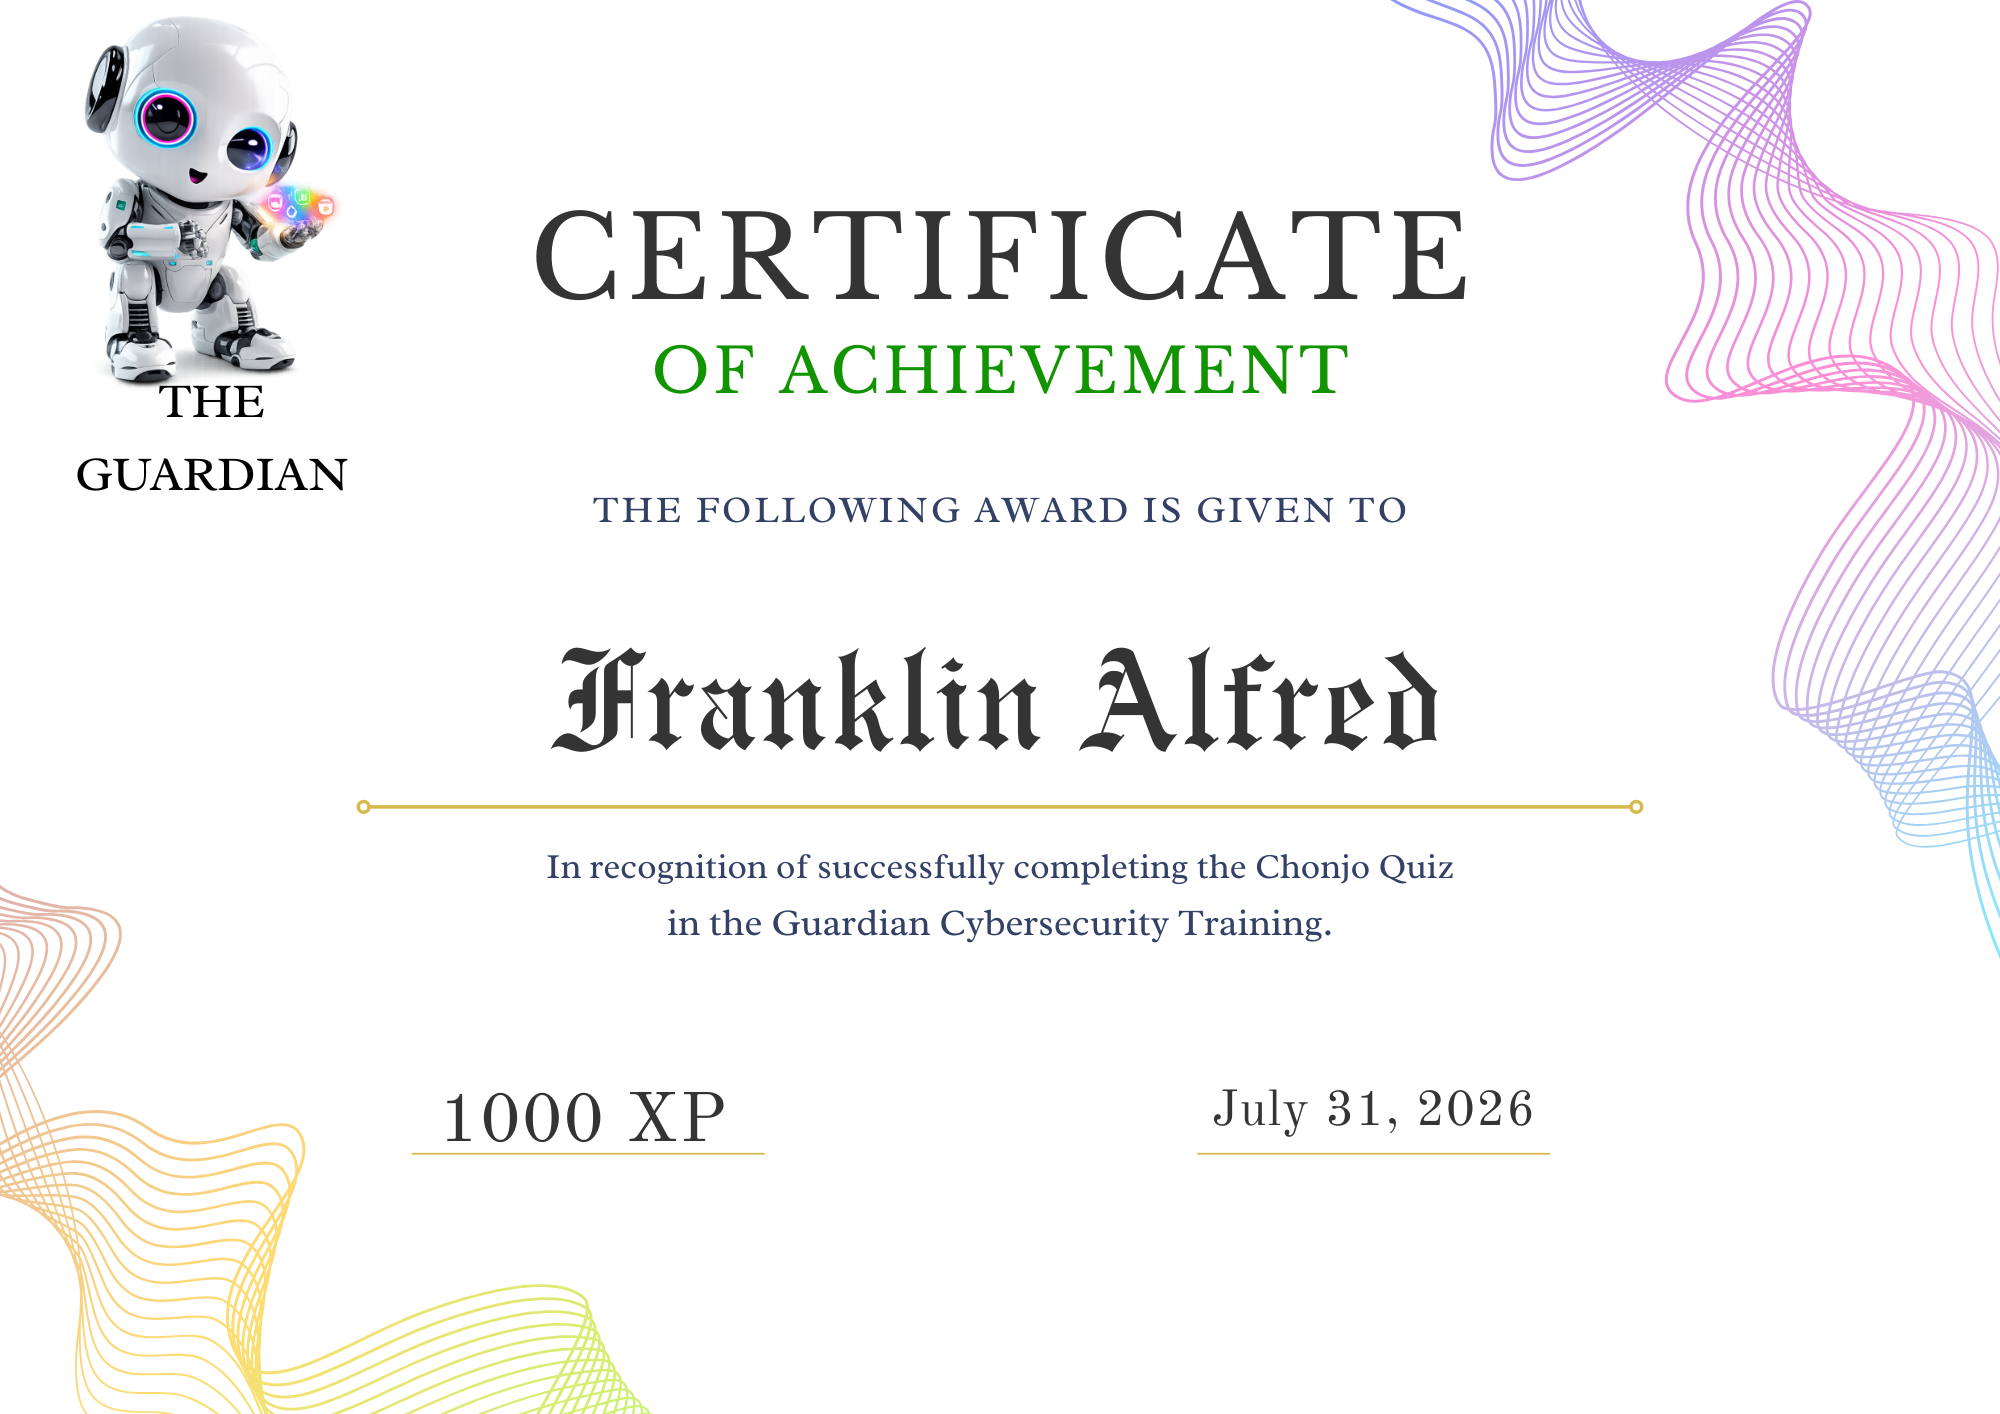
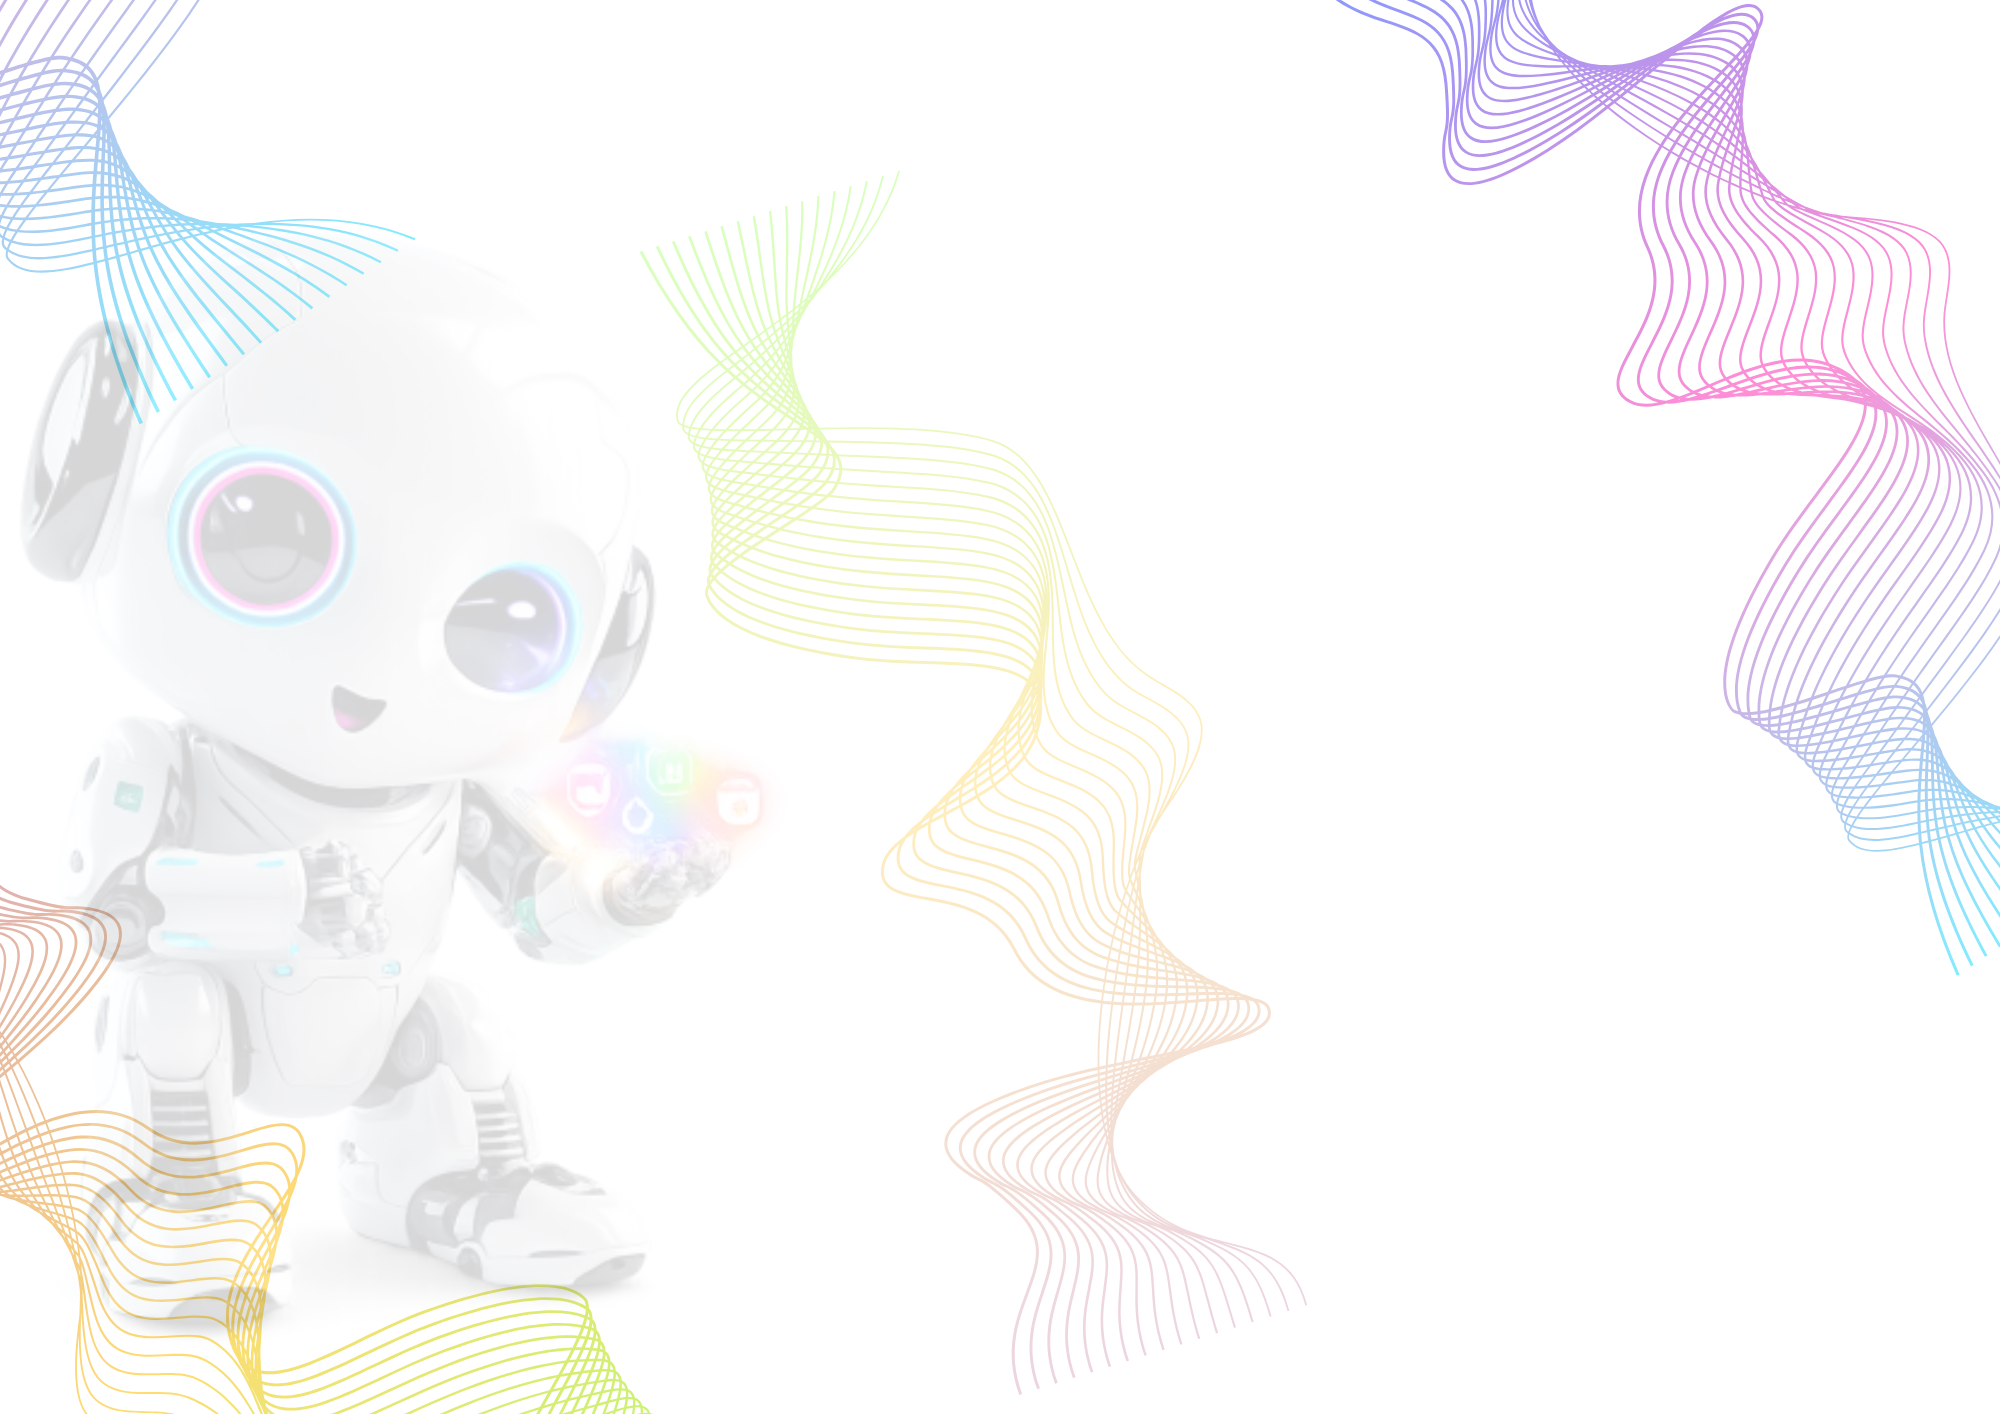
Fix certificate screen layout and resolution to prevent overflow and improve exported image quality

diff --git a/frontend/lib/screens/certificate_screen.dart b/frontend/lib/screens/certificate_screen.dart
@@ -36,16 +36,16 @@ class _CertificateScreenState extends State<CertificateScreen> {
           as RenderRepaintBoundary?;
       if (boundary == null) return;
 
-      final image = await boundary.toImage(pixelRatio: 3.0);
+      final image = await boundary.toImage(pixelRatio: 2.0); // 2.0 is enough for a 1000x700 canvas (results in 2000x1400 image)
       final byteData = await image.toByteData(format: ui.ImageByteFormat.png);
       if (byteData == null) return;
 
       final Uint8List pngBytes = byteData.buffer.asUint8List();
 
-      // Save to Downloads/Pictures directory
+      // Save to Documents directory (works on Android and iOS)
       final directory = await getApplicationDocumentsDirectory();
       final filePath =
-          '${directory.path}/CyberMfukoni_Certificate_${widget.username}.png';
+          '${directory.path}/CyberMfukoni_Certificate_${widget.username.replaceAll(' ', '_')}.png';
       final file = File(filePath);
       await file.writeAsBytes(pngBytes);
 
@@ -59,8 +59,8 @@ class _CertificateScreenState extends State<CertificateScreen> {
                 const SizedBox(width: 8),
                 Expanded(
                   child: Text(
-                    'Certificate saved to: $filePath',
-                    style: const TextStyle(color: Colors.black, fontWeight: FontWeight.w600),
+                    'Certificate saved to:\n$filePath',
+                    style: const TextStyle(color: Colors.black, fontWeight: FontWeight.w600, fontSize: 12),
                   ),
                 ),
               ],
@@ -107,21 +107,40 @@ class _CertificateScreenState extends State<CertificateScreen> {
       body: Column(
         children: [
           const SizedBox(height: 20),
-          // Certificate card
+          // Certificate card wrapped in FittedBox to maintain aspect ratio and fit on screen
           Expanded(
             child: Center(
-              child: SingleChildScrollView(
+              child: Padding(
                 padding: const EdgeInsets.symmetric(horizontal: 16),
-                child: RepaintBoundary(
-                  key: _certKey,
-                  child: _buildCertificate(),
+                child: Container(
+                  decoration: BoxDecoration(
+                    boxShadow: [
+                      BoxShadow(
+                        color: const Color(0xFFFFD700).withOpacity(0.15),
+                        blurRadius: 40,
+                        spreadRadius: 2,
+                      ),
+                      BoxShadow(
+                        color: Colors.black.withOpacity(0.5),
+                        blurRadius: 20,
+                        offset: const Offset(0, 10),
+                      ),
+                    ],
+                  ),
+                  child: FittedBox(
+                    fit: BoxFit.contain,
+                    child: RepaintBoundary(
+                      key: _certKey,
+                      child: _buildCertificate(),
+                    ),
+                  ),
                 ),
               ),
             ),
           ),
           // Download button
           Padding(
-            padding: const EdgeInsets.fromLTRB(24, 16, 24, 32),
+            padding: const EdgeInsets.fromLTRB(24, 24, 24, 32),
             child: SizedBox(
               width: double.infinity,
               height: 56,
@@ -162,34 +181,22 @@ class _CertificateScreenState extends State<CertificateScreen> {
   }
 
   Widget _buildCertificate() {
+    // We use a fixed 1000x700 resolution. 
+    // The FittedBox above will scale this down to fit the phone screen visually, 
+    // but the RepaintBoundary will capture the full 1000x700 high-res image.
     return Container(
-      width: double.infinity,
-      constraints: const BoxConstraints(maxWidth: 500),
-      decoration: BoxDecoration(
-        color: const Color(0xFFFFFDF5),
-        borderRadius: BorderRadius.circular(12),
-        boxShadow: [
-          BoxShadow(
-            color: const Color(0xFFFFD700).withOpacity(0.25),
-            blurRadius: 30,
-            spreadRadius: 2,
-          ),
-          BoxShadow(
-            color: Colors.black.withOpacity(0.4),
-            blurRadius: 20,
-            offset: const Offset(0, 10),
-          ),
-        ],
+      width: 1000,
+      height: 700,
+      decoration: const BoxDecoration(
+        color: Color(0xFFFFFDF5),
       ),
       child: Stack(
         children: [
           // Certificate background image
-          ClipRRect(
-            borderRadius: BorderRadius.circular(12),
+          Positioned.fill(
             child: Image.asset(
               'assets/images/cert_bg.png',
               fit: BoxFit.cover,
-              width: double.infinity,
               errorBuilder: (context, error, stackTrace) {
                 // Fallback if cert_bg.png is not yet placed
                 return _buildFallbackCertBackground();
@@ -199,81 +206,82 @@ class _CertificateScreenState extends State<CertificateScreen> {
           // Overlay text on the certificate
           Positioned.fill(
             child: Padding(
-              padding: const EdgeInsets.symmetric(horizontal: 32, vertical: 24),
+              padding: const EdgeInsets.symmetric(horizontal: 40, vertical: 30),
               child: Column(
                 children: [
-                  const SizedBox(height: 20),
+                  const SizedBox(height: 30),
                   // "THE GUARDIAN" branding
                   Row(
                     mainAxisAlignment: MainAxisAlignment.center,
                     children: [
                       Image.asset(
                         'assets/images/logo.webp',
-                        height: 60,
+                        height: 80,
                         errorBuilder: (_, __, ___) => const SizedBox.shrink(),
                       ),
                     ],
                   ),
-                  const SizedBox(height: 10),
+                  const SizedBox(height: 15),
                   // "CERTIFICATE" heading
                   Text(
                     'CERTIFICATE',
                     style: GoogleFonts.cinzel(
-                      fontSize: 28,
-                      fontWeight: FontWeight.w800,
+                      fontSize: 56,
+                      fontWeight: FontWeight.w900,
                       color: const Color(0xFF8B4513),
-                      letterSpacing: 4,
+                      letterSpacing: 10,
                     ),
                   ),
                   Text(
                     'OF ACHIEVEMENT',
                     style: GoogleFonts.cinzel(
-                      fontSize: 14,
-                      fontWeight: FontWeight.w600,
-                      color: const Color(0xFF8B4513).withOpacity(0.7),
-                      letterSpacing: 3,
+                      fontSize: 22,
+                      fontWeight: FontWeight.w700,
+                      color: const Color(0xFF8B4513).withOpacity(0.75),
+                      letterSpacing: 6,
                     ),
                   ),
-                  const SizedBox(height: 20),
+                  const SizedBox(height: 40),
                   Text(
                     'THE FOLLOWING AWARD IS GIVEN TO',
                     style: GoogleFonts.poppins(
-                      fontSize: 9,
-                      fontWeight: FontWeight.w500,
-                      color: Colors.grey[600],
-                      letterSpacing: 2,
+                      fontSize: 14,
+                      fontWeight: FontWeight.w600,
+                      color: Colors.grey[700],
+                      letterSpacing: 3,
                     ),
                   ),
-                  const SizedBox(height: 12),
+                  const SizedBox(height: 16),
                   // User's name in Old English style
                   Text(
                     widget.username,
                     textAlign: TextAlign.center,
                     style: GoogleFonts.unifrakturMaguntia(
-                      fontSize: 32,
+                      fontSize: 72,
                       color: const Color(0xFF1A1A2E),
+                      height: 1.1,
                     ),
                   ),
-                  const SizedBox(height: 4),
+                  const SizedBox(height: 8),
                   // Email
                   Text(
                     widget.email,
                     style: GoogleFonts.poppins(
-                      fontSize: 10,
-                      color: Colors.grey[500],
+                      fontSize: 16,
+                      color: Colors.grey[600],
                       fontStyle: FontStyle.italic,
                     ),
                   ),
-                  const SizedBox(height: 16),
+                  const SizedBox(height: 30),
                   // Description
                   Container(
-                    padding: const EdgeInsets.symmetric(horizontal: 20),
+                    padding: const EdgeInsets.symmetric(horizontal: 120),
                     child: Text(
                       'In recognition of successfully completing the Chonjo Quiz\nin the Guardian Cybersecurity Training.',
                       textAlign: TextAlign.center,
                       style: GoogleFonts.poppins(
-                        fontSize: 10,
-                        color: Colors.grey[700],
+                        fontSize: 18,
+                        color: Colors.grey[800],
                         height: 1.6,
                       ),
                     ),
@@ -281,25 +289,25 @@ class _CertificateScreenState extends State<CertificateScreen> {
                   const Spacer(),
                   // Bottom row: XP and Date
                   Padding(
-                    padding: const EdgeInsets.only(bottom: 24),
+                    padding: const EdgeInsets.only(bottom: 40, left: 100, right: 100),
                     child: Row(
-                      mainAxisAlignment: MainAxisAlignment.spaceEvenly,
+                      mainAxisAlignment: MainAxisAlignment.spaceBetween,
                       children: [
                         Column(
                           children: [
                             Text(
                               '${widget.totalXp} XP',
                               style: GoogleFonts.cinzel(
-                                fontSize: 18,
-                                fontWeight: FontWeight.w800,
+                                fontSize: 26,
+                                fontWeight: FontWeight.w900,
                                 color: const Color(0xFF1A1A2E),
                               ),
                             ),
                             Container(
-                              width: 60,
-                              height: 1,
-                              color: Colors.grey[400],
-                              margin: const EdgeInsets.only(top: 4),
+                              width: 140,
+                              height: 2,
+                              color: Colors.grey[500],
+                              margin: const EdgeInsets.only(top: 8),
                             ),
                           ],
                         ),
@@ -308,16 +316,16 @@ class _CertificateScreenState extends State<CertificateScreen> {
                             Text(
                               widget.dateEarned,
                               style: GoogleFonts.poppins(
-                                fontSize: 13,
-                                fontWeight: FontWeight.w600,
+                                fontSize: 20,
+                                fontWeight: FontWeight.w700,
                                 color: const Color(0xFF1A1A2E),
                               ),
                             ),
                             Container(
-                              width: 80,
-                              height: 1,
-                              color: Colors.grey[400],
-                              margin: const EdgeInsets.only(top: 4),
+                              width: 180,
+                              height: 2,
+                              color: Colors.grey[500],
+                              margin: const EdgeInsets.only(top: 8),
                             ),
                           ],
                         ),
@@ -336,9 +344,7 @@ class _CertificateScreenState extends State<CertificateScreen> {
   /// Fallback certificate background if cert_bg.png is not placed yet.
   Widget _buildFallbackCertBackground() {
     return Container(
-      height: 500,
       decoration: BoxDecoration(
-        borderRadius: BorderRadius.circular(12),
         gradient: const LinearGradient(
           begin: Alignment.topLeft,
           end: Alignment.bottomRight,
@@ -350,7 +356,7 @@ class _CertificateScreenState extends State<CertificateScreen> {
         ),
         border: Border.all(
           color: const Color(0xFFDAA520),
-          width: 3,
+          width: 5,
         ),
       ),
       child: CustomPaint(
@@ -364,29 +370,29 @@ class _CertBorderPainter extends CustomPainter {
   @override
   void paint(Canvas canvas, Size size) {
     final paint = Paint()
-      ..color = const Color(0xFFDAA520).withOpacity(0.3)
+      ..color = const Color(0xFFDAA520).withOpacity(0.4)
       ..style = PaintingStyle.stroke
-      ..strokeWidth = 1.5;
+      ..strokeWidth = 2.0;
 
     // Inner border
-    final rect = Rect.fromLTWH(12, 12, size.width - 24, size.height - 24);
-    canvas.drawRRect(RRect.fromRectAndRadius(rect, const Radius.circular(8)), paint);
+    final rect = Rect.fromLTWH(20, 20, size.width - 40, size.height - 40);
+    canvas.drawRect(rect, paint);
 
     // Corner decorations
     final cornerPaint = Paint()
-      ..color = const Color(0xFFDAA520).withOpacity(0.5)
+      ..color = const Color(0xFFDAA520).withOpacity(0.6)
       ..style = PaintingStyle.fill;
 
-    const cornerSize = 20.0;
+    const cornerSize = 30.0;
     // Top-left
-    canvas.drawCircle(Offset(cornerSize, cornerSize), 4, cornerPaint);
+    canvas.drawCircle(const Offset(cornerSize, cornerSize), 6, cornerPaint);
     // Top-right
-    canvas.drawCircle(Offset(size.width - cornerSize, cornerSize), 4, cornerPaint);
+    canvas.drawCircle(Offset(size.width - cornerSize, cornerSize), 6, cornerPaint);
     // Bottom-left
-    canvas.drawCircle(Offset(cornerSize, size.height - cornerSize), 4, cornerPaint);
+    canvas.drawCircle(Offset(cornerSize, size.height - cornerSize), 6, cornerPaint);
     // Bottom-right
     canvas.drawCircle(
-        Offset(size.width - cornerSize, size.height - cornerSize), 4, cornerPaint);
+        Offset(size.width - cornerSize, size.height - cornerSize), 6, cornerPaint);
   }
 
   @override
